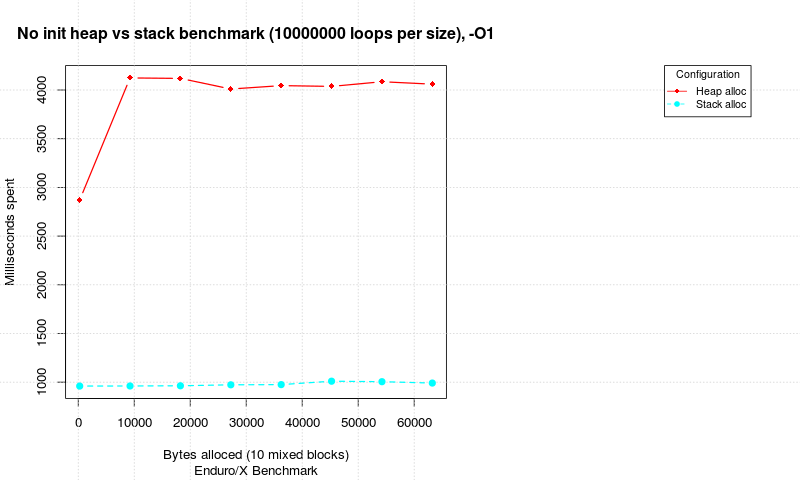
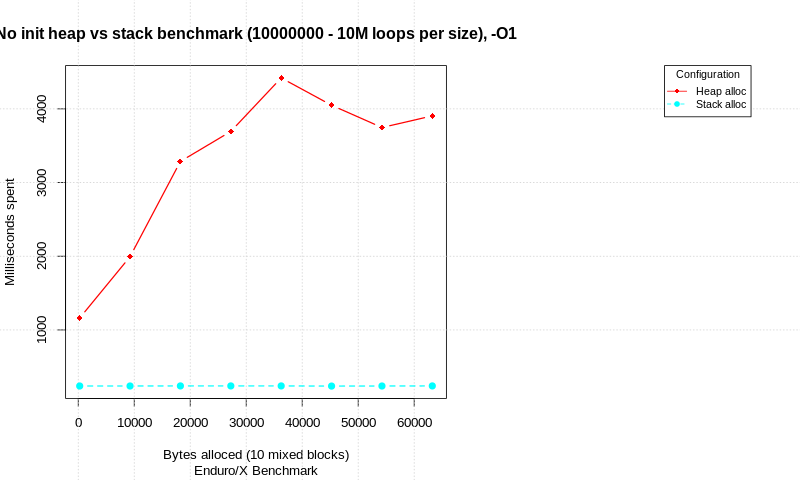
Updates on testing

diff --git a/README.md b/README.md
@@ -27,7 +27,8 @@ with different total chunk sizes.
 
 # Tests
 
-Test machine is: Intel(R) Core(TM) i5-4300U CPU @ 1.90GHz, Linux 64 bit, 4.15.0-39-generic.
+Test machine is: Intel(R) Core(TM) i7-6600U CPU, Linux 64 bit, 4.15.0-50-generic, Spectre and
+Meltdown patches disabled.
 
 ## Stack VS Heap - No INIT results -O1
 
